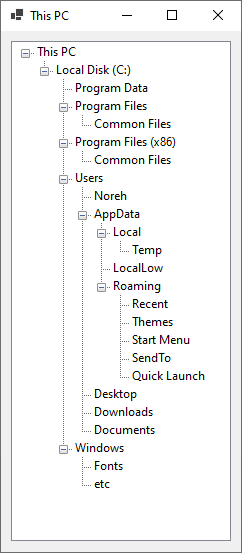
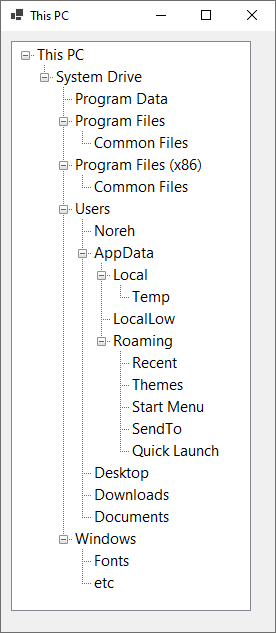
bigger text

diff --git a/Form1.Designer.cs b/Form1.Designer.cs
@@ -33,10 +33,11 @@
             // 
             // treeView1
             // 
+            this.treeView1.Font = new System.Drawing.Font("Segoe UI", 11.25F, System.Drawing.FontStyle.Regular, System.Drawing.GraphicsUnit.Point);
             this.treeView1.Location = new System.Drawing.Point(10, 10);
             this.treeView1.Margin = new System.Windows.Forms.Padding(0);
             this.treeView1.Name = "treeView1";
-            this.treeView1.Size = new System.Drawing.Size(220, 500);
+            this.treeView1.Size = new System.Drawing.Size(240, 570);
             this.treeView1.TabIndex = 10;
             this.treeView1.TabStop = false;
             this.treeView1.BeforeCollapse += new System.Windows.Forms.TreeViewCancelEventHandler(this.treeView1_BeforeCollapse);
@@ -46,7 +47,7 @@
             // 
             this.AutoScaleDimensions = new System.Drawing.SizeF(7F, 15F);
             this.AutoScaleMode = System.Windows.Forms.AutoScaleMode.Font;
-            this.ClientSize = new System.Drawing.Size(250, 531);
+            this.ClientSize = new System.Drawing.Size(274, 601);
             this.Controls.Add(this.treeView1);
             this.Name = "Form1";
             this.StartPosition = System.Windows.Forms.FormStartPosition.CenterScreen;

diff --git a/README.md b/README.md
@@ -2,7 +2,7 @@
 
 I do a lot of modifications in Windows, so I constantly visit this and that folder. Doing these visits manually is tedious. That's why I thought about creating a small tool that maps these commonly visited locations.
 
-![screenshot of the tool](screenshot.png)
+Double clicking an item in the list opens the location in the Explorer.
 
-Clicking an item in the list opens the location in the Explorer.
+![screenshot of the tool](screenshot.png)
 
